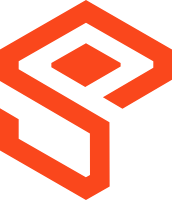
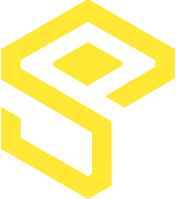
Theme color changed

diff --git a/src/Components/Navbar/Navbar.jsx b/src/Components/Navbar/Navbar.jsx
@@ -8,7 +8,7 @@ import { MdLogout, MdOutlineDashboard } from "react-icons/md";
 import { Tooltip } from "react-tooltip";
 
 const Navbar = () => {
-  const user = true;
+  const user = false;
   const menu = (
     <>
       <li>
@@ -17,7 +17,7 @@ const Navbar = () => {
           className={({ isActive }) =>
             isActive
               ? "text-primary border-b-2 rounded-none font-bold"
-              : "font-medium"
+              : "font-medium text-white hover:text-primary"
           }
         >
           Home
@@ -29,7 +29,7 @@ const Navbar = () => {
           className={({ isActive }) =>
             isActive
               ? "text-primary border-b-2 rounded-none font-bold"
-              : "font-medium hover:bg-white hover:text-primary"
+              : "font-medium text-white hover:text-primary"
           }
         >
           Courts
@@ -38,7 +38,7 @@ const Navbar = () => {
       {
         user ||
         <Link to="login" className="lg:hidden">
-            <button className="w-full btn btn-primary text-white text-base font-normal py-4 tracking-wider hover:bg-secondary hover:text-black">
+            <button className="w-full btn btn-primary text-black text-base font-normal py-4 tracking-wider hover:bg-secondary hover:text-black">
               <FaUserCircle size={20}></FaUserCircle>
               Login
             </button>
@@ -109,7 +109,7 @@ const Navbar = () => {
           </div>
         ) : (
           <Link to="login" className="hidden md:flex">
-            <button className="btn btn-primary text-white text-base font-normal py-6 px-6 tracking-wider hover:bg-secondary hover:text-black">
+            <button className="btn btn-primary text-black text-base font-normal py-6 px-6 tracking-wider hover:bg-secondary hover:text-black">
               <FaUserCircle size={30}></FaUserCircle>
               Login
             </button>
@@ -123,7 +123,7 @@ const Navbar = () => {
             {/* Page content here */}
             <label
               htmlFor="my-drawer"
-              className=" drawer-button btn bg-white border-0 shadow-none"
+              className=" drawer-button bg-black btn border-0 shadow-none"
             >
               <TiThMenu className="text-primary" size={30} />
             </label>
@@ -134,7 +134,7 @@ const Navbar = () => {
               aria-label="close sidebar"
               className="drawer-overlay"
             ></label>
-            <ul className="menu bg-base-200 text-base-content min-h-full w-80 p-4 space-y-4">
+            <ul className="menu bg-black text-base-content min-h-full w-80 p-4 space-y-4">
               {/* Sidebar content here */}
               {menu}
             </ul>

diff --git a/src/index.css b/src/index.css
@@ -6,9 +6,9 @@
   name: "light";
   default: true;
 
-  --color-primary: #fa471c;
-  --color-secondary: #f2ae9a;
-  --color-accent: #ffe6d7;
+  --color-primary: #ffe733;
+  --color-secondary: #ffffff;
+  --color-accent: #efefef;
 }
 
 *{

diff --git a/src/Layouts/Root.jsx b/src/Layouts/Root.jsx
@@ -5,7 +5,7 @@ import Navbar from '../Components/Navbar/Navbar';
 const Root = () => {
     return (
         <>
-        <header>
+        <header className='bg-black'>
             <Navbar></Navbar>
         </header>
         <main>
